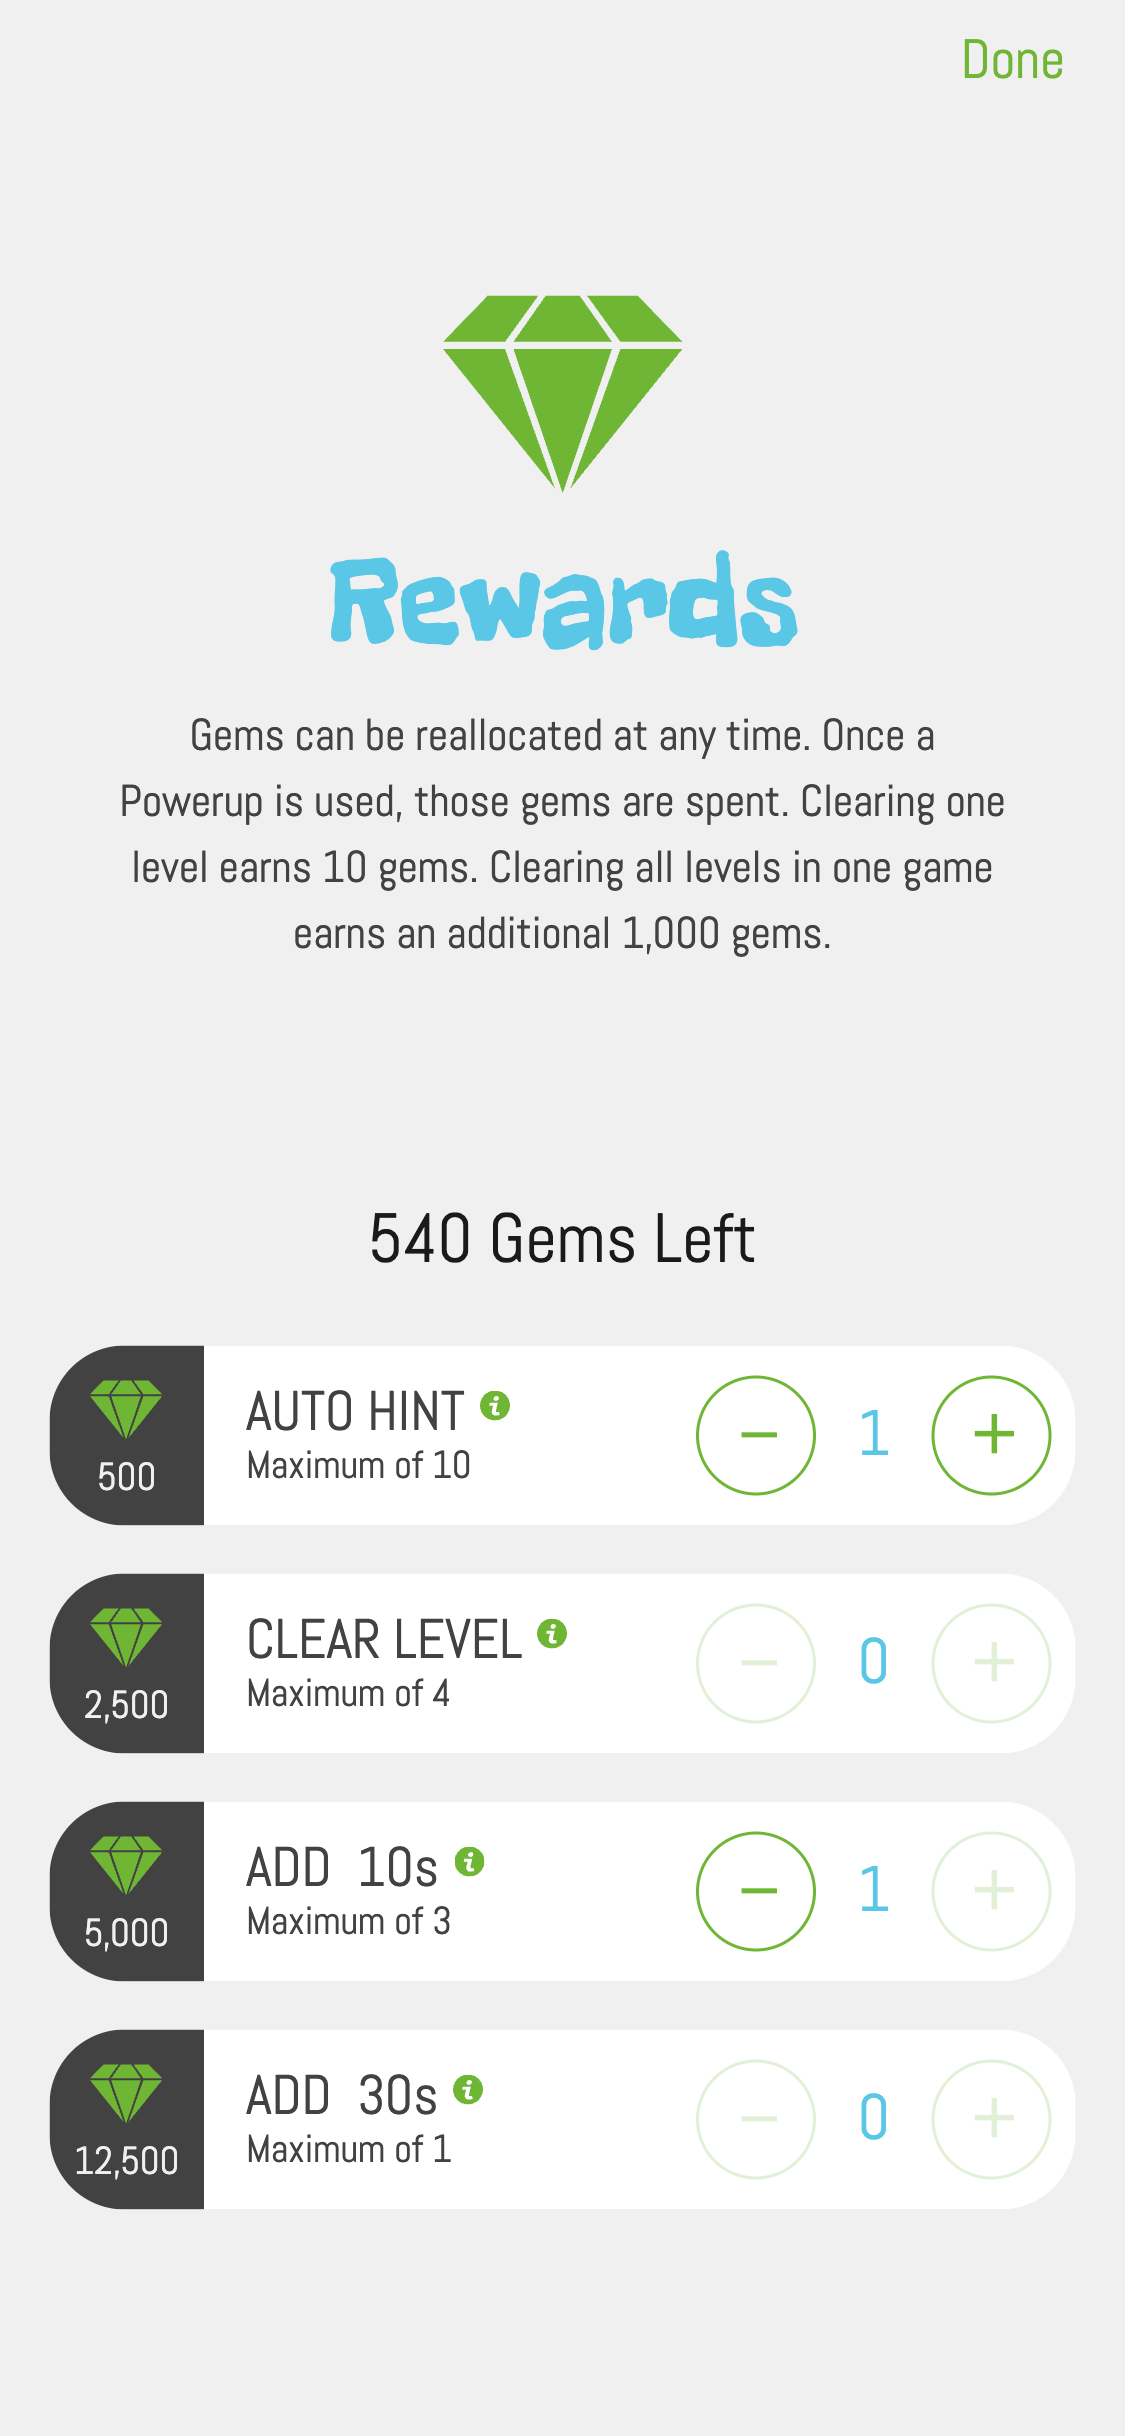
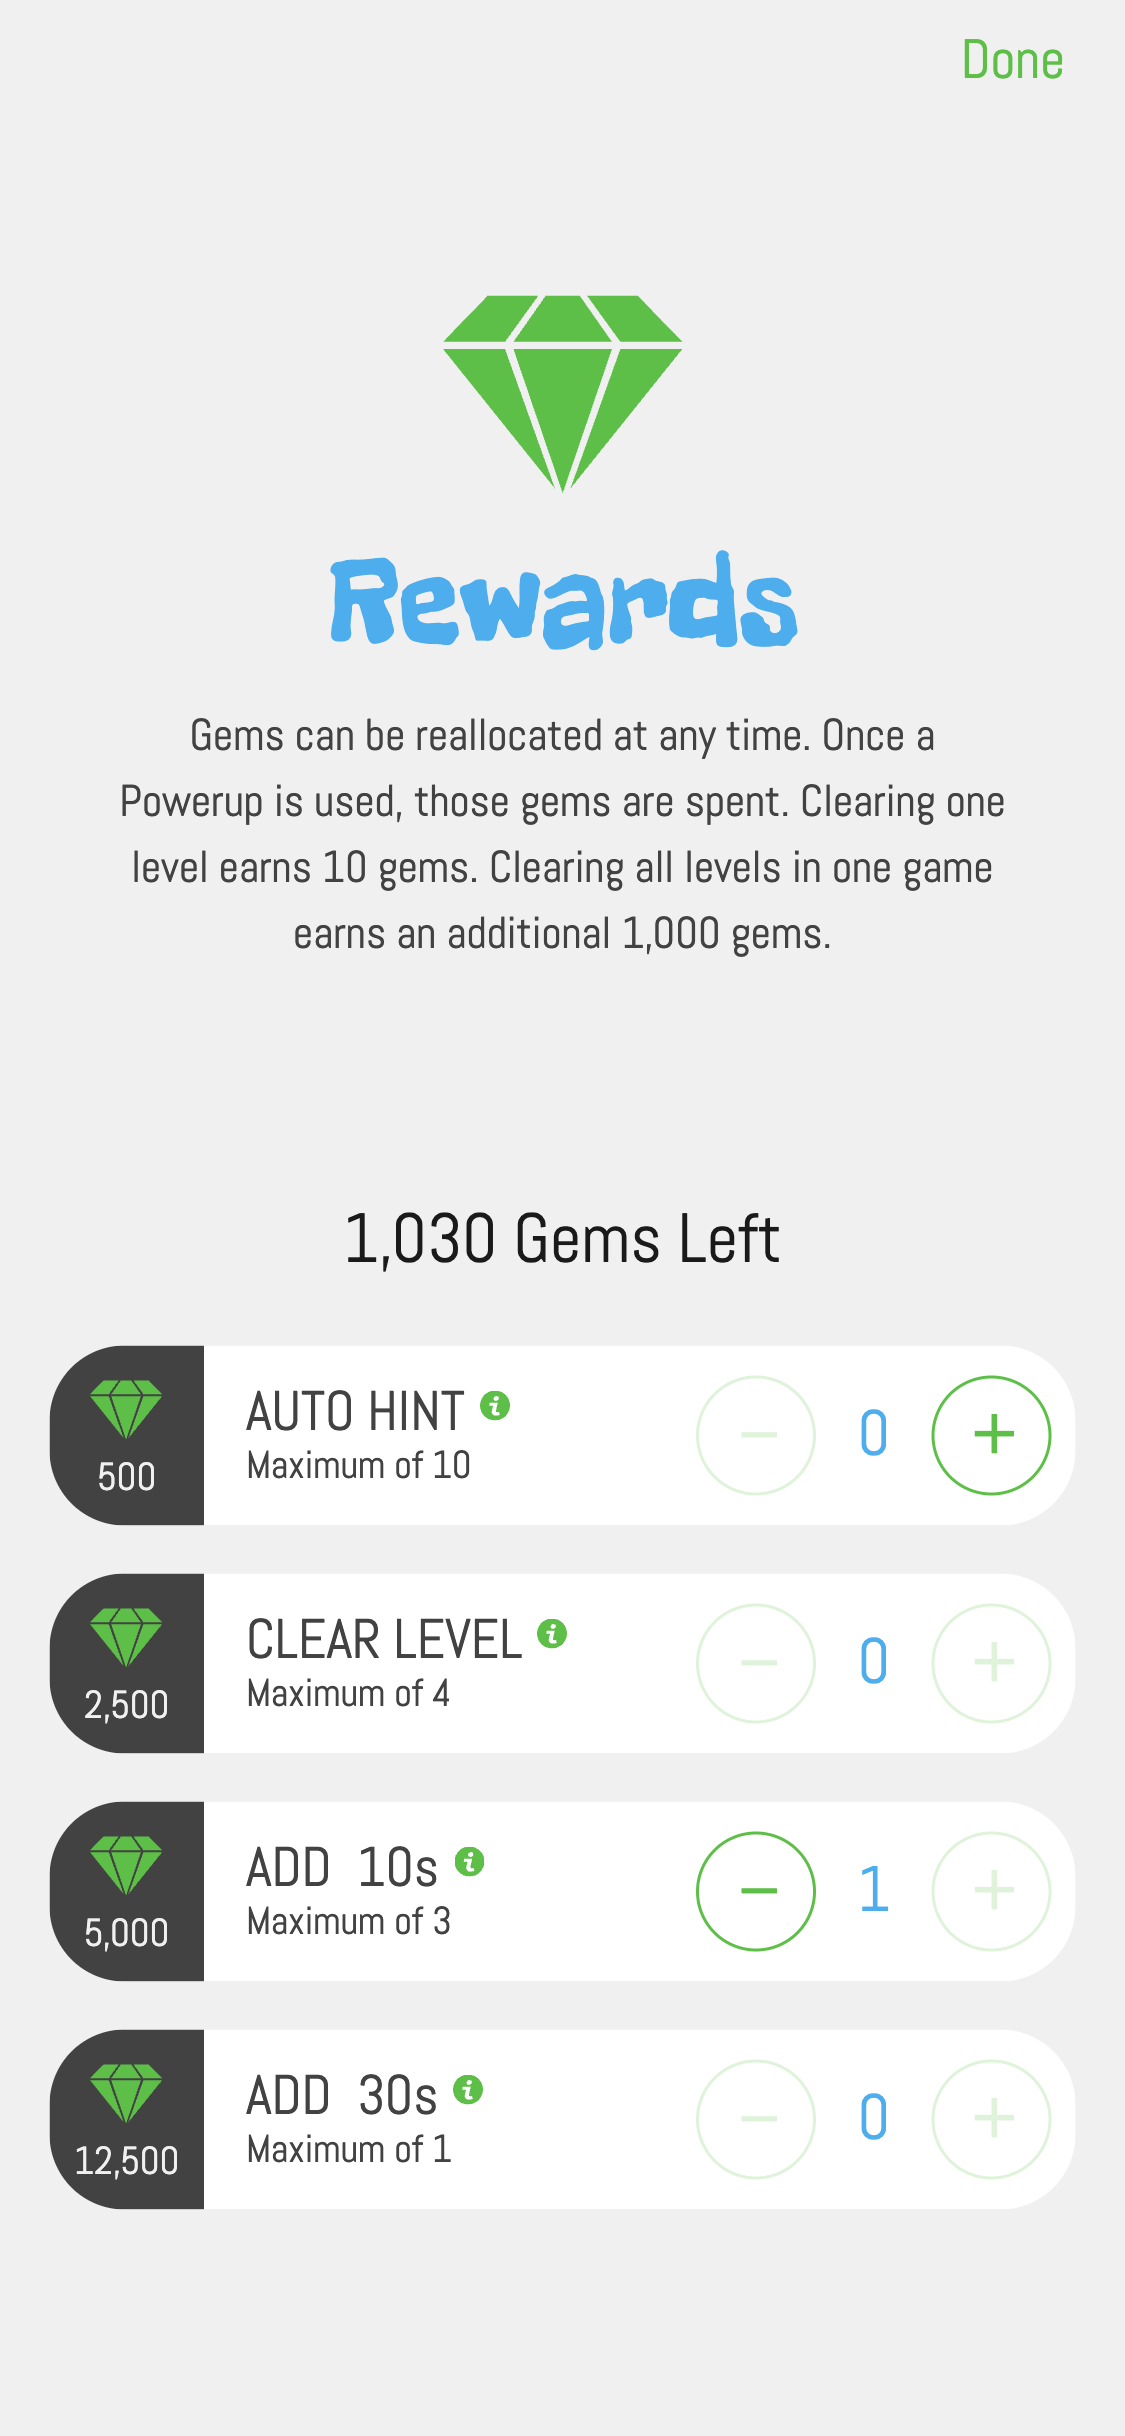
kindred colors

diff --git a/models/PageObject.min.js b/models/PageObject.min.js
@@ -1,1 +1,1 @@
-class PageObject{constructor(e){this.name=null==e.name?"name":e.name,this.description=null==e.description?"description":e.description,this.price=null==e.price?0:e.price,this.priceText=void 0===e.priceText?"Free":e.priceText,this.googleplayurl=null==e.googleplayurl?"":e.googleplayurl,this.appleappstoreurl=null==e.appleappstoreurl?"":e.appleappstoreurl,this.msappstore=null==e.msappstore?"":e.msappstore,this.about=null==e.about?"":e.about,this.aboutExtra=null==e.aboutExtra?"":e.aboutExtra,this.showMore=void 0!==e.showMore&&e.showMore,this.video=void 0===e.video?"":e.video,this.versionHistory=null==e.versionHistory?"":e.versionHistory,this.version=null==e.version?"":e.version,this.path=null==e.path?"path":e.path,this.url=null==e.url?"url":e.url,this.iconUrl=void 0===e.iconUrl?"./images/icon512.png":e.iconUrl,this.isSelected=null!=e.isSelected&&e.isSelected,this.showInNav=null==e.showInNav||e.showInNav,this.showAsGame=null==e.showAsGame||e.showAsGame,this.backgroundColor=null==e.backgroundColor?"":e.backgroundColor,this.contentBackgroundColor=null==e.contentBackgroundColor?"rgba(250,250,250,.9)":e.contentBackgroundColor,this.useBanner=void 0===e.useBanner||e.useBanner,this.bannerText=void 0===e.bannerText?"beta":e.bannerText,this.bannerType=void 0===e.bannerType?"beta":e.bannerType,this.features=void 0===e.features?[]:e.features,this.screenshots=void 0===e.screenshots?[]:e.screenshots,this.isMobileFirst=void 0===e.isMobileFirst||e.isMobileFirst,this.communities=void 0===e.communities?[]:e.communities,this.quotes=void 0===e.quotes?[]:e.quotes,this.isPWA=void 0===e.isPWA||e.isPWA}}var Pages=[new PageObject({name:"Home",description:"Home page.",path:"home",url:".",showAsGame:!1,useBanner:!1}),new PageObject({name:"Privacy Policy",description:"Privacy Policy page.",path:"privacy",url:".",showAsGame:!1,useBanner:!1,showInNav:!1,backgroundColor:"hsl(var(--bannerHS), 25%)"}),new PageObject({name:"Kindred Cats!",description:"A game of herding cats in kind",path:"kindredcats",url:"https://kindredcats.bigtentgames.com",iconUrl:"images/kindredcats/icon512-btg.svg",features:["Brain training","Casual gameplay","Competitive gameplay","Alternate patterns","Color themes","Dark mode","Cat mode!","Score sharing","High scores"],about:'<p>Reminiscent of the card game "Set," the object of this fast-paced, casual mobile game is to observe the main cat and then select all other cats on the board that share <b>at least 2</b> of the following 3 attributes: color, shape, and pattern. There are 3 unique games modes for all types of players!</p>',aboutExtra:["<h2>Ranks</h2>",'<p>There are 7 ranks that you can unlock as you improve over time. Each rank increases the number of levels per game. In order to unlock the next higher rank, you have to clear 3 perfect levels at the current rank. Are you a "Super Selector"?<p>',"<h2>Game Modes</h2>","<p><b>Basic Mode</b><br />This is the default mode. Your game starts with a one minute countdown. Clear as many levels as possible. Getting a level right on your first guess adds 3 seconds to the countdown. At first, players typically only clear a few levels per game. Eventually, players start clearing 100s of levels per game!</p>","<p><b>Daily Challenge</b><br />Compete with your friends with daily, pre-generated levels. The number of levels in your daily challenge is dependant on your current rank.<p>","<p><b>Zen Mode</b><br />No timer and no stress. Think of this as a flow enabling, fidget-spinning brain trainer.</p>"],backgroundColor:"rgb(84, 184, 0)",screenshots:["1.png","2.png","3.png","4.png","5.png","6.png","7.png","8.png"],priceText:"free",bannerText:"free",bannerType:"free",version:"1.0.006"}),new PageObject({name:"Drop 'n Stop!",description:"The puck stops here",about:"Fast and fun, the object of this game is to test your reaction time. Hold the drop button and release when the puck hits the dropzone.",aboutExtra:["<h2>Game Modes</h2>","<p><b>Campaign mode</b><br /><p>In this default gameplay mode, there are 6 campaigns that you can unlock as you improve over time. Each campaigns has 6 sets, each with 5 to 10 levels (most have 10). The game starts easy, then challenges you incrementally over time. By the time you get to the final level you'll have dealt with hidden pucks, hidden dropzones, small and large pucks, speedy and slow pucks: all mixed together. How close to perfection can you get?<p>","<p><b>Zen Mode</b><br />This is a feature that is coming soon!</p>"],path:"dropnstop",url:"https://dropnstop.bigtentgames.com",iconUrl:"images/dropnstop/icon512-btg.svg",features:["Fast paced","Casual game play","Reaction training","Campaigns","Color themes"],screenshots:["1.png","2.png","3.png","4.png","5.png","6.png","7.png","8.png"],backgroundColor:"rgb(200, 100, 156)",priceText:"free",bannerText:"free",bannerType:"free"}),new PageObject({name:"Facets",priceText:"free",bannerText:"free",bannerType:"free",isPWA:!1,description:"A game of words and wits!",about:'<p>If you\'ve played "Connections," "CodeNames," or "So Clover," you\'ll be right at home with Facets! This quick online game challenges you to create or guess word puzzles that can bring you and your friends closer to each other.</p>',aboutExtra:["<h2>About</h2>",'<p>The challenge of "Facets" is to connect different words that may or may not be easily connected. Players take turns creating and guessing each other\'s puzzles over social media, text, messages, or other chat apps.</p>','<p>Choose words in different languages (English, Spanish, German, French, Arabic, Chinese (simplified), and Japanese so far) from a growing catalog of word categories like "Civilization," "Entertainment," "Science," and "Seasons." Each category provides a unique window into how you and your friends think or don\'t think alike!</p>',"<ul><li>When the gem is a sapphire, you are creating a puzzle.</li><li>When the gem is an emerald, you are guessing a puzzle a friend sent you.</li><li>When the gem is a ruby, you are reviewing a friend's guess.</li></ul>","<p>Because the game is entirely URL based, no other information is stored on a server or in the cloud. URL based turns also means you can revisit any guess or challenge any time, as long as you have the original message your friend sent you."],path:"facets",url:"https://facets.bigtentgames.com/open",iconUrl:"images/facets/icon512-btg.svg",features:["Word play","Low stakes","Fast paced","Turn based","Casual game play","Brain training"],screenshots:["1.png","2.png","3.png","4.png","5.png","6.png"],backgroundColor:"rgb(46, 106, 149)",communities:[{service:"Discord",name:"Big Tent Games Server",url:"https://discord.gg/sJ3vG3RHZd",links:[{name:"Facets - General",url:"https://discord.com/channels/1148025462598139934/1339449000633569292"},{name:"Facets - Feedback",url:"https://discord.com/channels/1148025462598139934/1339449108901007462"},{name:"Facets - Bug Reports",url:"https://discord.com/channels/1148025462598139934/1339449140228390992"}]}]}),new PageObject({name:"CommOddities!",description:"Not everything is an easy sell",about:'If you ever played "Dope Wars" on a Palm Pilot back in the day, then you have an idea how this game plays. Basically you have 365 "days" to buy/sell for as much profit as possible. Your moral compass will be tested!',path:"commoddities",url:"https://commoddities.bigtentgames.com",iconUrl:"images/commoddities/icon512-btg.svg",screenshots:["1.png","2.png","3.png","4.png","5.png","7.png"],bannerText:"alpha",bannerType:"alpha",backgroundColor:"rgb(43, 135, 101)"}),new PageObject({name:"Path",description:"Paths are the means to an end",about:"Not ready for mobile play at all. Proof of concept at best. Play at your own risk :).",path:"path",url:"https://path.bigtentgames.com",iconUrl:"images/path/icon512-btg.svg",backgroundColor:"color(display-p3 0.3608 0.7882 0.9804)",screenshots:["1.png","2.png","3.png"],bannerText:"alpha",bannerType:"alpha",isMobileFirst:!1})];
+class PageObject{constructor(e){this.name=null==e.name?"name":e.name,this.description=null==e.description?"description":e.description,this.price=null==e.price?0:e.price,this.priceText=void 0===e.priceText?"Free":e.priceText,this.googleplayurl=null==e.googleplayurl?"":e.googleplayurl,this.appleappstoreurl=null==e.appleappstoreurl?"":e.appleappstoreurl,this.msappstore=null==e.msappstore?"":e.msappstore,this.about=null==e.about?"":e.about,this.aboutExtra=null==e.aboutExtra?"":e.aboutExtra,this.showMore=void 0!==e.showMore&&e.showMore,this.video=void 0===e.video?"":e.video,this.versionHistory=null==e.versionHistory?"":e.versionHistory,this.version=null==e.version?"":e.version,this.path=null==e.path?"path":e.path,this.url=null==e.url?"url":e.url,this.iconUrl=void 0===e.iconUrl?"./images/icon512.png":e.iconUrl,this.isSelected=null!=e.isSelected&&e.isSelected,this.showInNav=null==e.showInNav||e.showInNav,this.showAsGame=null==e.showAsGame||e.showAsGame,this.backgroundColor=null==e.backgroundColor?"":e.backgroundColor,this.contentBackgroundColor=null==e.contentBackgroundColor?"rgba(250,250,250,.9)":e.contentBackgroundColor,this.useBanner=void 0===e.useBanner||e.useBanner,this.bannerText=void 0===e.bannerText?"beta":e.bannerText,this.bannerType=void 0===e.bannerType?"beta":e.bannerType,this.features=void 0===e.features?[]:e.features,this.screenshots=void 0===e.screenshots?[]:e.screenshots,this.isMobileFirst=void 0===e.isMobileFirst||e.isMobileFirst,this.communities=void 0===e.communities?[]:e.communities,this.quotes=void 0===e.quotes?[]:e.quotes,this.isPWA=void 0===e.isPWA||e.isPWA}}var Pages=[new PageObject({name:"Home",description:"Home page.",path:"home",url:".",showAsGame:!1,useBanner:!1}),new PageObject({name:"Privacy Policy",description:"Privacy Policy page.",path:"privacy",url:".",showAsGame:!1,useBanner:!1,showInNav:!1,backgroundColor:"hsl(var(--bannerHS), 25%)"}),new PageObject({name:"Kindred Cats!",description:"A game of herding cats in kind",path:"kindredcats",url:"https://kindredcats.bigtentgames.com",iconUrl:"images/kindredcats/icon512-btg.svg",features:["Brain training","Casual gameplay","Competitive gameplay","Alternate patterns","Color themes","Dark mode","Cat mode!","Score sharing","High scores"],about:'<p>Reminiscent of the card game "Set," the object of this fast-paced, casual mobile game is to observe the main cat and then select all other cats on the board that share <b>at least 2</b> of the following 3 attributes: color, shape, and pattern. There are 3 unique games modes for all types of players!</p>',aboutExtra:["<h2>Ranks</h2>",'<p>There are 7 ranks that you can unlock as you improve over time. Each rank increases the number of levels per game. In order to unlock the next higher rank, you have to clear 3 perfect levels at the current rank. Are you a "Super Selector"?<p>',"<h2>Game Modes</h2>","<p><b>Basic Mode</b><br />This is the default mode. Your game starts with a one minute countdown. Clear as many levels as possible. Getting a level right on your first guess adds 3 seconds to the countdown. At first, players typically only clear a few levels per game. Eventually, players start clearing 100s of levels per game!</p>","<p><b>Daily Challenge</b><br />Compete with your friends with daily, pre-generated levels. The number of levels in your daily challenge is dependant on your current rank.<p>","<p><b>Zen Mode</b><br />No timer and no stress. Think of this as a flow enabling, fidget-spinning brain trainer.</p>"],backgroundColor:"rgb(37, 194, 46)",screenshots:["1.png","2.png","3.png","4.png","5.png","6.png","7.png","8.png"],priceText:"free",bannerText:"free",bannerType:"free",version:"1.0.006"}),new PageObject({name:"Drop 'n Stop!",description:"The puck stops here",about:"Fast and fun, the object of this game is to test your reaction time. Hold the drop button and release when the puck hits the dropzone.",aboutExtra:["<h2>Game Modes</h2>","<p><b>Campaign mode</b><br /><p>In this default gameplay mode, there are 6 campaigns that you can unlock as you improve over time. Each campaigns has 6 sets, each with 5 to 10 levels (most have 10). The game starts easy, then challenges you incrementally over time. By the time you get to the final level you'll have dealt with hidden pucks, hidden dropzones, small and large pucks, speedy and slow pucks: all mixed together. How close to perfection can you get?<p>","<p><b>Zen Mode</b><br />This is a feature that is coming soon!</p>"],path:"dropnstop",url:"https://dropnstop.bigtentgames.com",iconUrl:"images/dropnstop/icon512-btg.svg",features:["Fast paced","Casual game play","Reaction training","Campaigns","Color themes"],screenshots:["1.png","2.png","3.png","4.png","5.png","6.png","7.png","8.png"],backgroundColor:"rgb(200, 100, 156)",priceText:"free",bannerText:"free",bannerType:"free"}),new PageObject({name:"Facets",priceText:"free",bannerText:"free",bannerType:"free",isPWA:!1,description:"A game of words and wits!",about:'<p>If you\'ve played "Connections," "CodeNames," or "So Clover," you\'ll be right at home with Facets! This quick online game challenges you to create or guess word puzzles that can bring you and your friends closer to each other.</p>',aboutExtra:["<h2>About</h2>",'<p>The challenge of "Facets" is to connect different words that may or may not be easily connected. Players take turns creating and guessing each other\'s puzzles over social media, text, messages, or other chat apps.</p>','<p>Choose words in different languages (English, Spanish, German, French, Arabic, Chinese (simplified), and Japanese so far) from a growing catalog of word categories like "Civilization," "Entertainment," "Science," and "Seasons." Each category provides a unique window into how you and your friends think or don\'t think alike!</p>',"<ul><li>When the gem is a sapphire, you are creating a puzzle.</li><li>When the gem is an emerald, you are guessing a puzzle a friend sent you.</li><li>When the gem is a ruby, you are reviewing a friend's guess.</li></ul>","<p>Because the game is entirely URL based, no other information is stored on a server or in the cloud. URL based turns also means you can revisit any guess or challenge any time, as long as you have the original message your friend sent you."],path:"facets",url:"https://facets.bigtentgames.com/open",iconUrl:"images/facets/icon512-btg.svg",features:["Word play","Low stakes","Fast paced","Turn based","Casual game play","Brain training"],screenshots:["1.png","2.png","3.png","4.png","5.png","6.png"],backgroundColor:"rgb(46, 106, 149)",communities:[{service:"Discord",name:"Big Tent Games Server",url:"https://discord.gg/sJ3vG3RHZd",links:[{name:"Facets - General",url:"https://discord.com/channels/1148025462598139934/1339449000633569292"},{name:"Facets - Feedback",url:"https://discord.com/channels/1148025462598139934/1339449108901007462"},{name:"Facets - Bug Reports",url:"https://discord.com/channels/1148025462598139934/1339449140228390992"}]}]}),new PageObject({name:"CommOddities!",description:"Not everything is an easy sell",about:'If you ever played "Dope Wars" on a Palm Pilot back in the day, then you have an idea how this game plays. Basically you have 365 "days" to buy/sell for as much profit as possible. Your moral compass will be tested!',path:"commoddities",url:"https://commoddities.bigtentgames.com",iconUrl:"images/commoddities/icon512-btg.svg",screenshots:["1.png","2.png","3.png","4.png","5.png","7.png"],bannerText:"alpha",bannerType:"alpha",backgroundColor:"rgb(43, 135, 101)"}),new PageObject({name:"Path",description:"Paths are the means to an end",about:"Not ready for mobile play at all. Proof of concept at best. Play at your own risk :).",path:"path",url:"https://path.bigtentgames.com",iconUrl:"images/path/icon512-btg.svg",backgroundColor:"color(display-p3 0.3608 0.7882 0.9804)",screenshots:["1.png","2.png","3.png"],bannerText:"alpha",bannerType:"alpha",isMobileFirst:!1})];

diff --git a/models/PageObject.js b/models/PageObject.js
@@ -68,7 +68,7 @@ var Pages = [
       '<p><b>Daily Challenge</b><br />Compete with your friends with daily, pre-generated levels. The number of levels in your daily challenge is dependant on your current rank.<p>',
       '<p><b>Zen Mode</b><br />No timer and no stress. Think of this as a flow enabling, fidget-spinning brain trainer.</p>',
     ],
-    backgroundColor: 'rgb(84, 184, 0)',
+    backgroundColor: 'rgb(37, 194, 46)',
     screenshots: ['1.png', '2.png', '3.png', '4.png', '5.png', '6.png', '7.png', '8.png'],
     priceText: 'free',
     bannerText: 'free',
